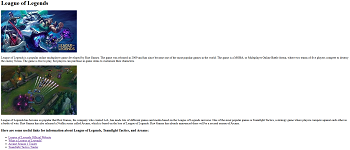
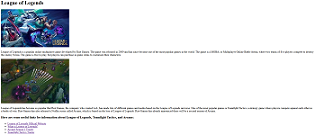
a04 main page

diff --git a/index.html b/index.html
@@ -16,7 +16,9 @@
             <div id="a01-03">
                 <section id="a01">
                     <h3>Assignment01 - Basic HTML</h3>
-                    <a href="assignments/assignment01/index.html"><img src="img/a01.PNG" alt="Assignment01" /></a>
+                    <a href="assignments/assignment01/index.html"
+                        ><img src="img/a01.PNG" alt="Assignment01"
+                    /></a>
                     <p>
                         Our first assignemnt where we used html and css to
                         create a simple webpage. We also included a few pictures
@@ -25,7 +27,9 @@
                 </section>
                 <section id="a02">
                     <h3>Assignment02 - Basic CSS</h3>
-                    <a href="assignments/assignment02/index.html"><img src="img/a02.PNG" alt="Assignment02" /></a>
+                    <a href="assignments/assignment02/index.html"
+                        ><img src="img/a02.PNG" alt="Assignment02"
+                    /></a>
                     <p>
                         Our second assignment where we created a basic
                         navigation and table alongside our css and pictures.
@@ -33,10 +37,27 @@
                 </section>
                 <section id="a03">
                     <h3>Assignment03 - Page Layout</h3>
-                    <a href="assignments/assignment03/index.html"><img src="img/a03.PNG" alt="Assignment03" /></a>
+                    <a href="assignments/assignment03/index.html"
+                        ><img src="img/a03.PNG" alt="Assignment03"
+                    /></a>
                     <p>
-                        Our third assignment where we used flexbox to adjust our webpage to different resolutions.
+                        Our third assignment where we used flexbox to adjust our
+                        webpage to different resolutions.
                     </p>
+                </section>
+            </div>
+
+            <div id="a04-06">
+                <section id="a04">
+                    <h3>Assignment04 - Recreate CSS</h3>
+                    <a href="assignments/assignment04/index.html"
+                        ><img src="img/a04.PNG" alt="Assignment04"
+                    /></a>
+                    <p>
+                        Our fourth assignemnt where we recreated a USC website
+                        CSS using flex.
+                    </p>
+                </section>
             </div>
         </main>
     </body>

diff --git a/projects/styles.css b/projects/styles.css
@@ -1,7 +1,8 @@
 /* Structure */
 body {
-    background:dimgray;
-    font-family:'Gill Sans', 'Gill Sans MT', Calibri, 'Trebuchet MS', sans-serif
+    background: dimgray;
+    font-family: "Gill Sans", "Gill Sans MT", Calibri, "Trebuchet MS",
+        sans-serif;
 }
 
 #headers {
@@ -19,7 +20,18 @@ body {
     text-align: center;
 }
 
-#a01, #a02, #a03 {
+#a04-06 {
+    display: block;
+    padding: 20px;
+    margin: auto;
+    width: 80%;
+    text-align: center;
+}
+
+#a01,
+#a02,
+#a03,
+#a04 {
     background-color: cadetblue;
 }
 
@@ -27,16 +39,16 @@ body {
     margin: auto;
     width: 80%;
     text-align: center;
-    color:maroon;
+    color: maroon;
 }
 
 /* Typography */
 h1 {
-    color:yellow;
+    color: yellow;
 }
 
 h2 {
-    color:lightskyblue;
+    color: lightskyblue;
 }
 
 @media (min-width: 900px) {
@@ -50,5 +62,9 @@ h2 {
         grid-template-columns: 1fr 1fr 1fr;
         grid-gap: 20px;
     }
-
+    #a04-06 {
+        display: flex;
+        grid-template-columns: 1fr 1fr 1fr;
+        grid-gap: 20px;
+    }
 }

diff --git a/assignments/assignment04/index.html b/assignments/assignment04/index.html
@@ -131,15 +131,19 @@
             </section>
         </div>
 
-        <div id="bottom-header">
-            <section id="bottom-header">
-                <h3>College of Arts and Sciences</h3>
-                <a href="#">Location</a>
-                <a href="#">Contact</a>
-                <a href="#">Give</a>
-                <a href="#">Calendar</a>
-                <a href="#">Social Media</a>
+        <div class="bottom-header">
+            <section class="bottom-header">
+                <h3 id="test">College of Arts and Sciences</h3>
+                <a class="bottom-link" href="#">Location</a>
+                <a class="bottom-link" href="#">Contact</a>
+                <a class="bottom-link" href="#">Give</a>
+                <a class="bottom-link" href="#">Calendar</a>
+                <a class="bottom-link" href="#">Social Media</a>
             </section>
+        </div>
+
+        <div id="lowest-div">
+            
         </div>
 
         <footer id="footer">

diff --git a/assignments/assignment04/styles.css b/assignments/assignment04/styles.css
@@ -50,7 +50,7 @@ body {
 }
 
 #upper-body-pic {
-    width: 100%;
+    width: 50%;
 }
 
 #upper-body-text {
@@ -111,28 +111,39 @@ body {
     scale: 0.67;
 }
 
-#bottom-header,
-#bottom-header a {
+.bottom-header {
+    display: flex;
+}
+
+.bottom-header,
+.bottom-header a {
     background-color: gray;
     text-decoration: none;
     color: black;
     font-weight: bold;
-    justify-content: space-between;
-    align-items: center;
-    display:flex;
+    justify-content:center;
+    padding: 10px;
+}
+
+.bottom-header h3 {
+    padding-right: 100px;
 }
 
 .bottom-link {
-    text-align: right;
-    float: right;
+    justify-content: flex-end;
     padding: 5px;
+    margin-top: 12px;
 }
-
 
 #footer {
     color: white;
-    scale: .67;
+    scale: 0.67;
     text-align: left;
+}
+
+
+#lowest-div {
+    background-color: #73000a;
 }
 
 /* Resolutions */
@@ -143,4 +154,5 @@ body {
         display: inline;
         text-align: right;
     }
+
 }
